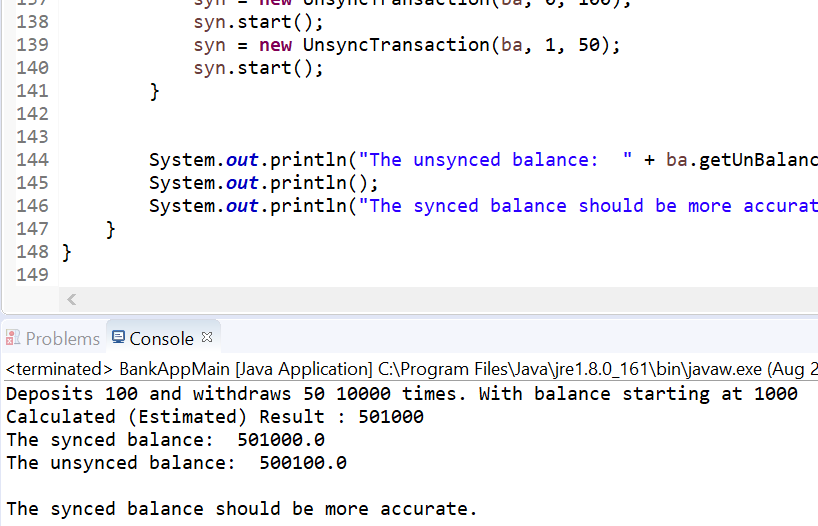
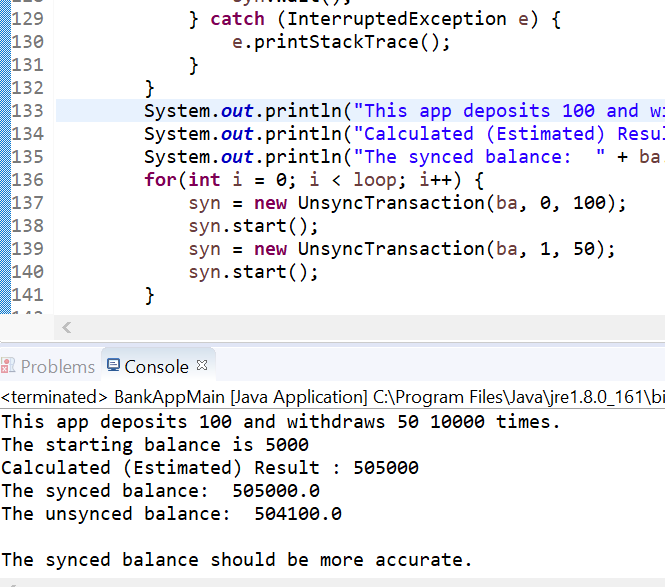
Add files via upload

diff --git a/BankAppMain.java b/BankAppMain.java
@@ -112,7 +112,7 @@ class UnsyncTransaction extends Thread{
 public class BankAppMain {
 	public static void main(String[] args) {
 		
-		BankAccount ba = new BankAccount(1000);
+		BankAccount ba = new BankAccount(5000);
 		Thread syn = null;
 		int loop = 10000;
 		
@@ -130,8 +130,8 @@ public class BankAppMain {
 				e.printStackTrace();
 			}
 		}
-		System.out.println("Deposits 100 and withdraws 50 " + loop + " times. With balance starting at 1000");
-		System.out.println("Calculated (Estimated) Result : " + (1000 + (100-50)*loop));
+		System.out.println("This app deposits 100 and withdraws 50 " + loop + " times. \nThe starting balance is 5000");
+		System.out.println("Calculated (Estimated) Result : " + (5000 + (100-50)*loop));
 		System.out.println("The synced balance:  " + ba.getBalance());
 		for(int i = 0; i < loop; i++) {
 			syn = new UnsyncTransaction(ba, 0, 100);
